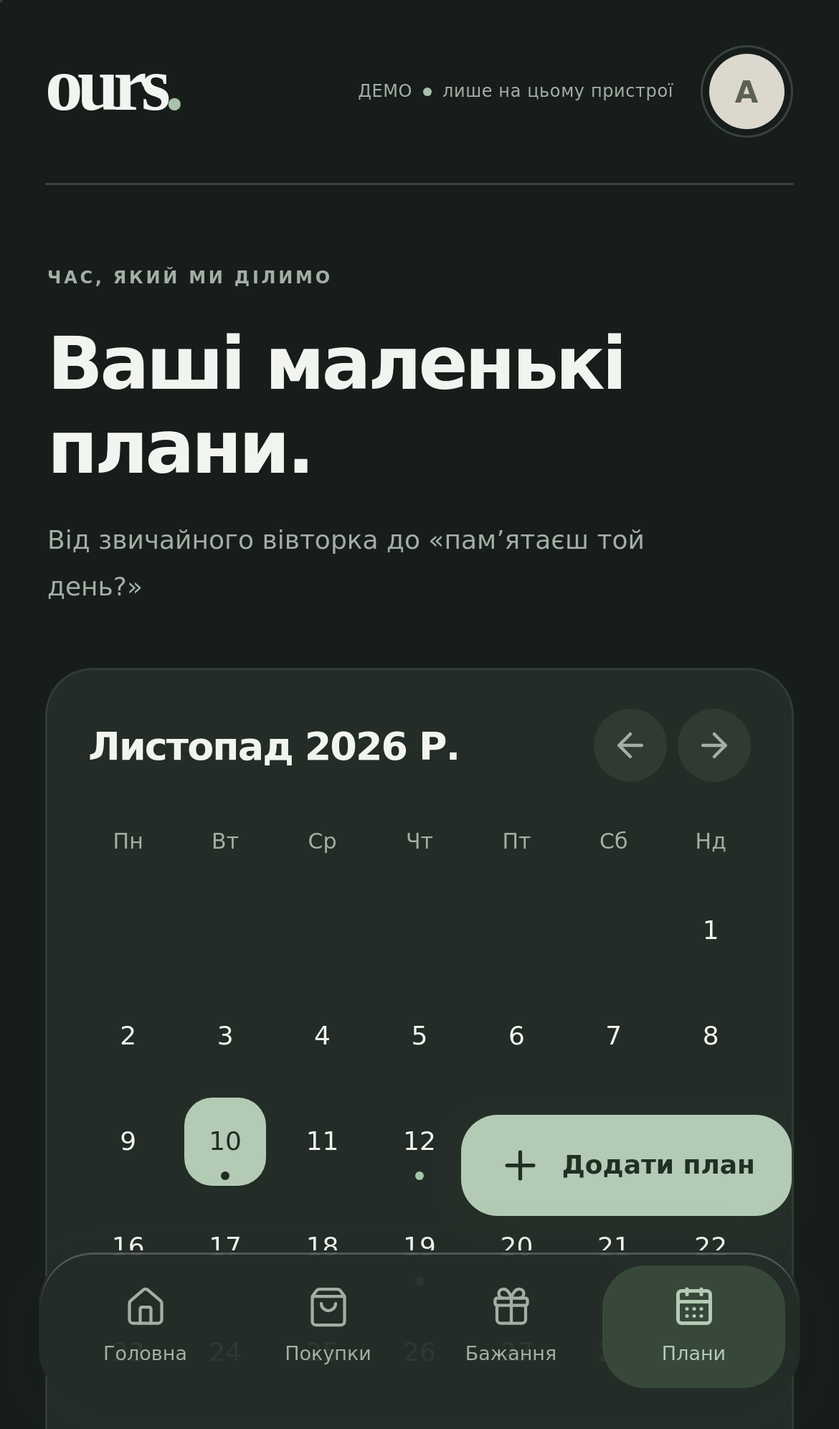
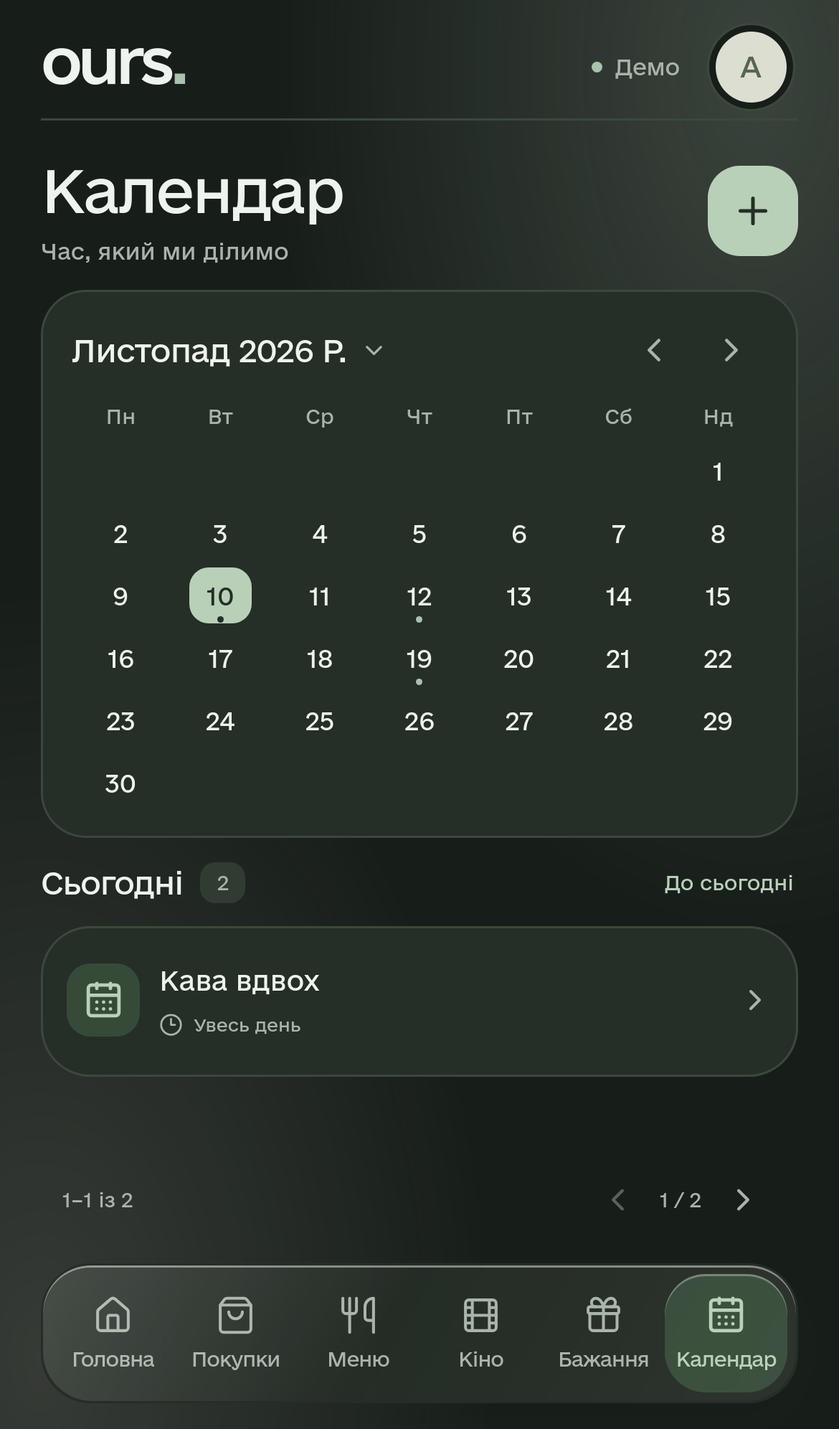
Document verified six-tab release and refresh mobile previews [skip ci]

diff --git a/docs/VERIFICATION.md b/docs/VERIFICATION.md
@@ -1,59 +1,59 @@
-# Перевірка релізу
+# Перевірка ours. 2
 
 Дата: 10 листопада 2026.
 
 ## Фактично виконано
 
-- `npm run build`: TypeScript strict і Vite production build успішні, service worker та manifest згенеровані.
-- `npm run lint`: без помилок.
-- `npm test`: 24 перевірки успішні.
-- `npm audit --omit=dev --audit-level=high`: 0 відомих вразливостей production-залежностей на момент перевірки.
-- Збірку для project path `/ours/` додатково перевірено на відносні ресурси, manifest scope / start_url та реєстрацію service worker.
+- `npm run lint` — без помилок.
+- `npm test` — **70 тестів успішні**.
+- `npm run build` — TypeScript strict, Vite production build, manifest і service worker успішні.
+- Збірку з `VITE_BASE_PATH=/ours/` перевірено скриптом `verify-dist.mjs`: шляхи ресурсів, manifest scope / start_url та реєстрація service worker коректні.
+- Deno typecheck модульної Edge Function і одного файла для Dashboard — успішний.
+- `npm audit --omit=dev --audit-level=high` — 0 відомих вразливостей production-залежностей на момент перевірки.
 
-## 6 DOM-інтеграційних перевірок
+## 70 автоматичних тестів
 
-React Testing Library + user-event + jsdom, реальні компоненти й демосховище. Тільки PWA-реєстрацію підмінено, оскільки jsdom не має service worker.
+| Група               | Кількість | Що перевірено                                                                                                                                                                                                                                                                            |
+| ------------------- | --------: | ---------------------------------------------------------------------------------------------------------------------------------------------------------------------------------------------------------------------------------------------------------------------------------------- |
+| DOM / React         |        10 | Додавання, купівля й повернення товару; бажання й редагування; кіно та статус перегляду; подія на весь день; персональні непрочитані оновлення після reload; імпорт рецепта; генератор вечері й локальне збереження; теми; незбережені форми; приватність подарунків                     |
+| PostgreSQL / RLS    |        21 | Два акаунти, запрошення, відмова третьому, ізоляція пар, покупки / історія / повторення, бажання, бронювання лише для автора, спільні події й кіно, приватний Storage, персональні read receipts, атомарний імпорт інгредієнтів, rate limit, відсутність подарунків у стрічці й Realtime |
+| Повний SQL setup    |         1 | Один запит створює 14 таблиць з RLS та приватний bucket                                                                                                                                                                                                                                  |
+| Метадані / URL / IP |        27 | Movie / Product / Recipe JSON-LD, Open Graph, українські кількості й дроби, вставлений текст, HTTPS URL, приватні й змішані DNS-відповіді                                                                                                                                                |
+| HTTP handler        |         4 | Origin, JWT, членство та rate limit до зовнішнього запиту; CORS / no-store; ліміт request body; зрозуміла відмова джерела                                                                                                                                                                |
+| HTTPS transport     |         6 | Прив’язка TCP до перевіреного IP зі збереженням TLS hostname; redirects і downgrade; обмеження відповіді без Content-Length; відмова стисненого / не-HTML вмісту; скасування                                                                                                             |
+| Генератор меню      |         1 | Гарнір, м’ясо/риба та салат без повторення поточних складових                                                                                                                                                                                                                            |
 
-1. Додавання покупки, відмітка, повернення, збереження у localStorage.
-2. Додавання бажання та відкриття редагування.
-3. Створення події на весь день.
-4. Темна / світла тема й збереження вибору.
-5. Попередження при закритті форми; назва й кількість не губляться після «Продовжити».
-6. Бронювання партнерського бажання без додавання статусу в wish.
+PGlite виконує всі три міграції й реальні PostgreSQL-політики під ролями `authenticated` / `anon`. Auth-схема, JWT-функції та Storage-таблиці мінімально відтворені для тесту. Мережевий Supabase Realtime цим не емулюється. HTTP transport у тестах підмінено; довільні зовнішні сайти ними не викликаються.
 
-## 17 перевірок PostgreSQL / RLS
+## Браузерні перевірки й публікація
 
-PGlite запускає обидві міграції; тест працює під реальними PostgreSQL-ролями. Обгортки Supabase Auth та Storage створено як тестові schema/table, publication присутня; мережевий Realtime не емулюється.
+Успішний прогін оновлення: [GitHub Actions 42882139820](https://github.com/hubaluna/ours/actions/runs/42882139820), код `5d1ce45`.
 
-Перевірено створення пари, приєднання другого, відмову третьому, одноразовість / прострочення / заміну запрошення, заборону підробки членства, спільні покупки й події, архівацію / історію / повторення, заборону власних резервацій, доступ лише автору бронювання, неможливість змінити його автора, приховування від отримувача, ізоляцію іншої пари, захист профілю / чужих бажань, приватність фото й папки завантаження, заборону anonymous-доступу й відсутність секретних бронювань у Realtime-публікації.
+- **build: success** — чисте встановлення залежностей, ESLint, 70 тестів, Deno typecheck, production-збірка для Pages і перевірка service worker.
+- **browser: success** — **14 Playwright-перевірок**: WebKit з емуляцією iPhone 13 та desktop Chromium.
+- **deploy: success** — застосунок опублікований: **https://hubaluna.github.io/ours/**.
 
-## Один SQL-запит із телефона
+Після deployment через HTTPS отримано HTTP 200 для HTML, усіх ресурсів із HTML, обох e-Ukraine WOFF2, нової графіки, іконок, manifest і service worker. У публічному CSS перевірено нове оформлення списків та правильний шлях `/ours/fonts/`; manifest має scope / start_url `/ours/` і display `standalone`.
 
-Додатковий тест `tests/setup.test.ts` успішно застосував об’єднаний `supabase/setup.sql` до свіжого PostgreSQL-оточення: 10 таблиць, RLS на всіх таблицях і приватний bucket фотографій. Це альтернатива послідовному запуску двох міграцій, а не додаткова міграція поверх них.
+Браузерні сценарії перевіряють усі шість вкладок, збереження переглянутих оновлень після reload, додавання / купівлю / повернення товару, генератор меню, додавання й перегляд кіно, форми, події, темну тему, імпорт тексту рецепта та відсутність необроблених JavaScript-помилок у головному сценарії.
 
-## Браузерні перевірки на GitHub
+На розмірах **320×568, 390×664, 390×844, 844×390 і 1280×800** перевірено всі шість вкладок: основний документ не має горизонтальної або вертикальної прокрутки; контент не перекриває навігацію, навігація в межах viewport. Додаткова перевірка підтверджує, що рядки поточної сторінки не обрізаються контейнером. Довгі списки доступні через сторінки. Форми, деталі та збільшений календар відкриваються окремо й можуть прокручуватися.
 
-Фінальний прогін: [GitHub Actions 42849135899](https://github.com/hubaluna/ours/actions/runs/42849135899), код `ec4758b`.
-
-- **build: success** — чисте встановлення залежностей, ESLint, 24 тести, production-збірка, перевірка шляхів Pages і service worker.
-- **browser: success** — 4 Playwright-сценарії на зібраному PWA: WebKit з емуляцією iPhone 13 та Chromium на десктопі. Перевірено навігацію, додавання / відмітку товару, форми у межах viewport, перемикання тем і відсутність горизонтального скролу на 320 px. У сценарії перевіряються необроблені JavaScript-помилки.
-- **deploy: success** — після ввімкнення Pages власником успішно повторено лише deployment (attempt 2), зі збереженням результатів успішних build і browser jobs. Опубліковано **https://hubaluna.github.io/ours/**. Через HTTPS перевірено HTTP 200 для HTML, усіх ресурсів із HTML, іконок, manifest і service worker; scope та start_url — `/ours/`, display — `standalone`.
-
-[Скриншоти](PREVIEW.md) переглянуто візуально. Після огляду посилено читабельність sheets, уніфіковано закриті select / number controls і скидання scroll при переході між вкладками. Тести очікують завершення spring перед перевіркою геометрії. Browser-job навмисно збирає `--mode test`, тому не використовує реальну базу навіть після заповнення публічної конфігурації.
+Browser-job використовує `--mode test`: він ізольований від живої бази навіть після заповнення публічної конфігурації. [Справжні скриншоти](PREVIEW.md) зберігаються як артефакт GitHub Actions та переглядаються візуально.
 
 ## Що не запускалося
 
-- Фізичний iPhone, Safari keyboard, standalone-встановлення, оцінка FPS, фактичний WCAG-контраст у браузері.
-- Реальна реєстрація email / SMTP, HTTP Storage, Realtime на двох телефонах: потрібен ваш Supabase.
-- Паралельний стрес-тест двох окремих PostgreSQL-з’єднань. Row locks та транзакційні обмеження реалізовано, але PGlite-тести виконуються послідовно.
+- Фізичний iPhone, системна клавіатура Safari, standalone-встановлення, вимірювання FPS і повний аудит WCAG-контрасту.
+- Реальна реєстрація email / SMTP, HTTP Storage, Realtime на двох телефонах, hosted Edge Function та читання зовнішніх URL: потрібен ваш Supabase.
+- Паралельний стрес-тест двох окремих PostgreSQL-з’єднань. Row locks та транзакційні обмеження реалізовано; PGlite-тести послідовні.
 
 ## Приймальна перевірка після підключення Supabase
 
-1. На двох пристроях увійти незалежними акаунтами, створити простір і прийняти запрошення.
-2. А додає товар; Б бачить його без refresh. Б відмічає; А бачить оновлення. Видалення також зникає у партнера.
-3. А додає бажання. Б бронює / позначає придбаним. А не бачить статусу; прямий SELECT `gift_reservations` з JWT А повертає порожній результат.
-4. Третій акаунт не приймає використане запрошення і не читає чужі couple_id / wish_id / фото.
-5. Подія створюється / редагується обома й відображається на головній.
-6. Вимкнути мережу: індикатор змінюється, незбережений запис не видається за успішний. Увімкнути мережу: дані перечитуються.
-7. Установити PWA на iPhone, перевірити клавіатуру, 320 px, збільшений текст, reduced motion і темну тему.
-8. Перевірити JSON: покупки / бажання / події присутні, бронювань немає.
+1. На двох пристроях увійти незалежними акаунтами, створити простір і прийняти одноразове запрошення. Третій акаунт не може приєднатися або читати дані.
+2. А додає товар; Б бачить його без refresh. Б відмічає; А бачить зміну.
+3. Б бачить нове оновлення від А на головній, відкриває його; після reload воно не повертається. У А власна дія у стрічці відсутня.
+4. А додає бажання. Б бронює й позначає придбаним. А не бачить статусу або оновлення; прямий SELECT `gift_reservations` з JWT А повертає порожній результат.
+5. Перевірити спільне кіно, редагування подій і JSON-експорт: покупки / бажання / кіно / події присутні, бронювань немає.
+6. Розгорнути `link-preview`, перевірити рецепт / товар / трейлер; перед збереженням звірити знайдені поля. Джерело без метаданих має показати можливість ручного введення.
+7. Вимкнути мережу: індикатор змінюється, незбережена зміна не видається за синхронізовану. Після перепідключення дані перечитуються.
+8. Установити PWA на iPhone, перевірити клавіатуру, збільшений текст, reduced motion, темну тему та кнопку «Оновити».

diff --git a/docs/PREVIEW.md b/docs/PREVIEW.md
@@ -1,19 +1,39 @@
-# ours. — вигляд застосунку
+# ours. 2 — вигляд застосунку
 
-Справжні скриншоти браузерних перевірок GitHub Actions: WebKit з емуляцією iPhone 13. На знімках — лише позначені демодані. Це не фото фізичного iPhone; системна клавіатура та встановлення PWA потребують окремої перевірки на пристрої.
+Справжні скриншоти [успішного браузерного прогону](https://github.com/hubaluna/ours/actions/runs/42882139820), код `5d1ce45`. WebKit з емуляцією iPhone 13, viewport 390×664 CSS px. На знімках — позначені демодані. Це не фото фізичного iPhone; системна клавіатура та встановлення PWA потребують окремої перевірки на пристрої.
 
-## Головна
+## Головна — тільки нове
 
-<img src="screenshots/iphone-home.png" width="280" alt="Головна ours. у світлій темі" />
+<img src="screenshots/iphone-home.png" width="280" alt="Непрочитані оновлення від партнера" />
+
+## Покупки
+
+<img src="screenshots/iphone-shopping.png" width="280" alt="Компактні покупки, категорії та сторінки списку" />
+
+## Меню — ідея для вечері
+
+<img src="screenshots/iphone-menu.png" width="280" alt="Генератор гарніру, м’яса або риби та салату" />
+
+## Кіно
+
+<img src="screenshots/iphone-movies.png" width="280" alt="Спільний список фільмів зі статусом перегляду" />
 
 ## Бажання
 
-<img src="screenshots/iphone-wishes.png" width="280" alt="Особисті бажання" />
+<img src="screenshots/iphone-wishes.png" width="280" alt="Мої бажання з цінами й пріоритетами" />
 
-## Плани
+## Календар
 
-<img src="screenshots/iphone-plans.png" width="280" alt="Спільний календар" />
+<img src="screenshots/iphone-calendar.png" width="280" alt="Місяць і подія обраного дня" />
 
 ## Темна тема
 
-<img src="screenshots/iphone-dark.png" width="280" alt="Темна тема календаря" />
+<img src="screenshots/iphone-dark.png" width="280" alt="М’яка графітова тема та матова навігація" />
+
+## Розгорнута форма
+
+<img src="screenshots/iphone-add-shopping.png" width="280" alt="Мобільна форма додавання покупки" />
+
+## Меню на десктопі
+
+<img src="screenshots/desktop-menu.png" width="800" alt="Три складові вечері на широкому екрані" />

diff --git a/docs/SECURITY.md b/docs/SECURITY.md
@@ -12,10 +12,10 @@
 | wishes                      | двоє учасників                            | лише власник                                    |
 | gift_reservations           | лише автор бронювання                     | лише автор; бронювання лише на бажання партнера |
 | events                      | двоє учасників                            | двоє учасників                                  |
-| movies                      | двоє учасників свого простору             | двоє, лише дозволені колонки                     |
-| activity_events             | двоє учасників свого простору             | лише серверні тригери                            |
-| activity_reads              | лише власник позначки                     | лише контрольований RPC                          |
-| link_import_limits          | прямого доступу немає                     | лише RPC з перевіркою членства                   |
+| movies                      | двоє учасників свого простору             | двоє, лише дозволені колонки                    |
+| activity_events             | двоє учасників свого простору             | лише серверні тригери                           |
+| activity_reads              | лише власник позначки                     | лише контрольований RPC                         |
+| link_import_limits          | прямого доступу немає                     | лише RPC з перевіркою членства                  |
 | photos                      | учасники простору з префікса шляху        | upload/delete лише в папці власного auth.uid()  |
 
 `current_couple()` і `same_couple()` — вузькі SECURITY DEFINER-функції з `search_path = ''`, які не приймають довільний couple_id від клієнта як підтвердження доступу. Таблиця членства захищена від прямого INSERT / UPDATE / DELETE. `user_id` у членстві унікальний, тригер і row lock не допускають третього учасника.
